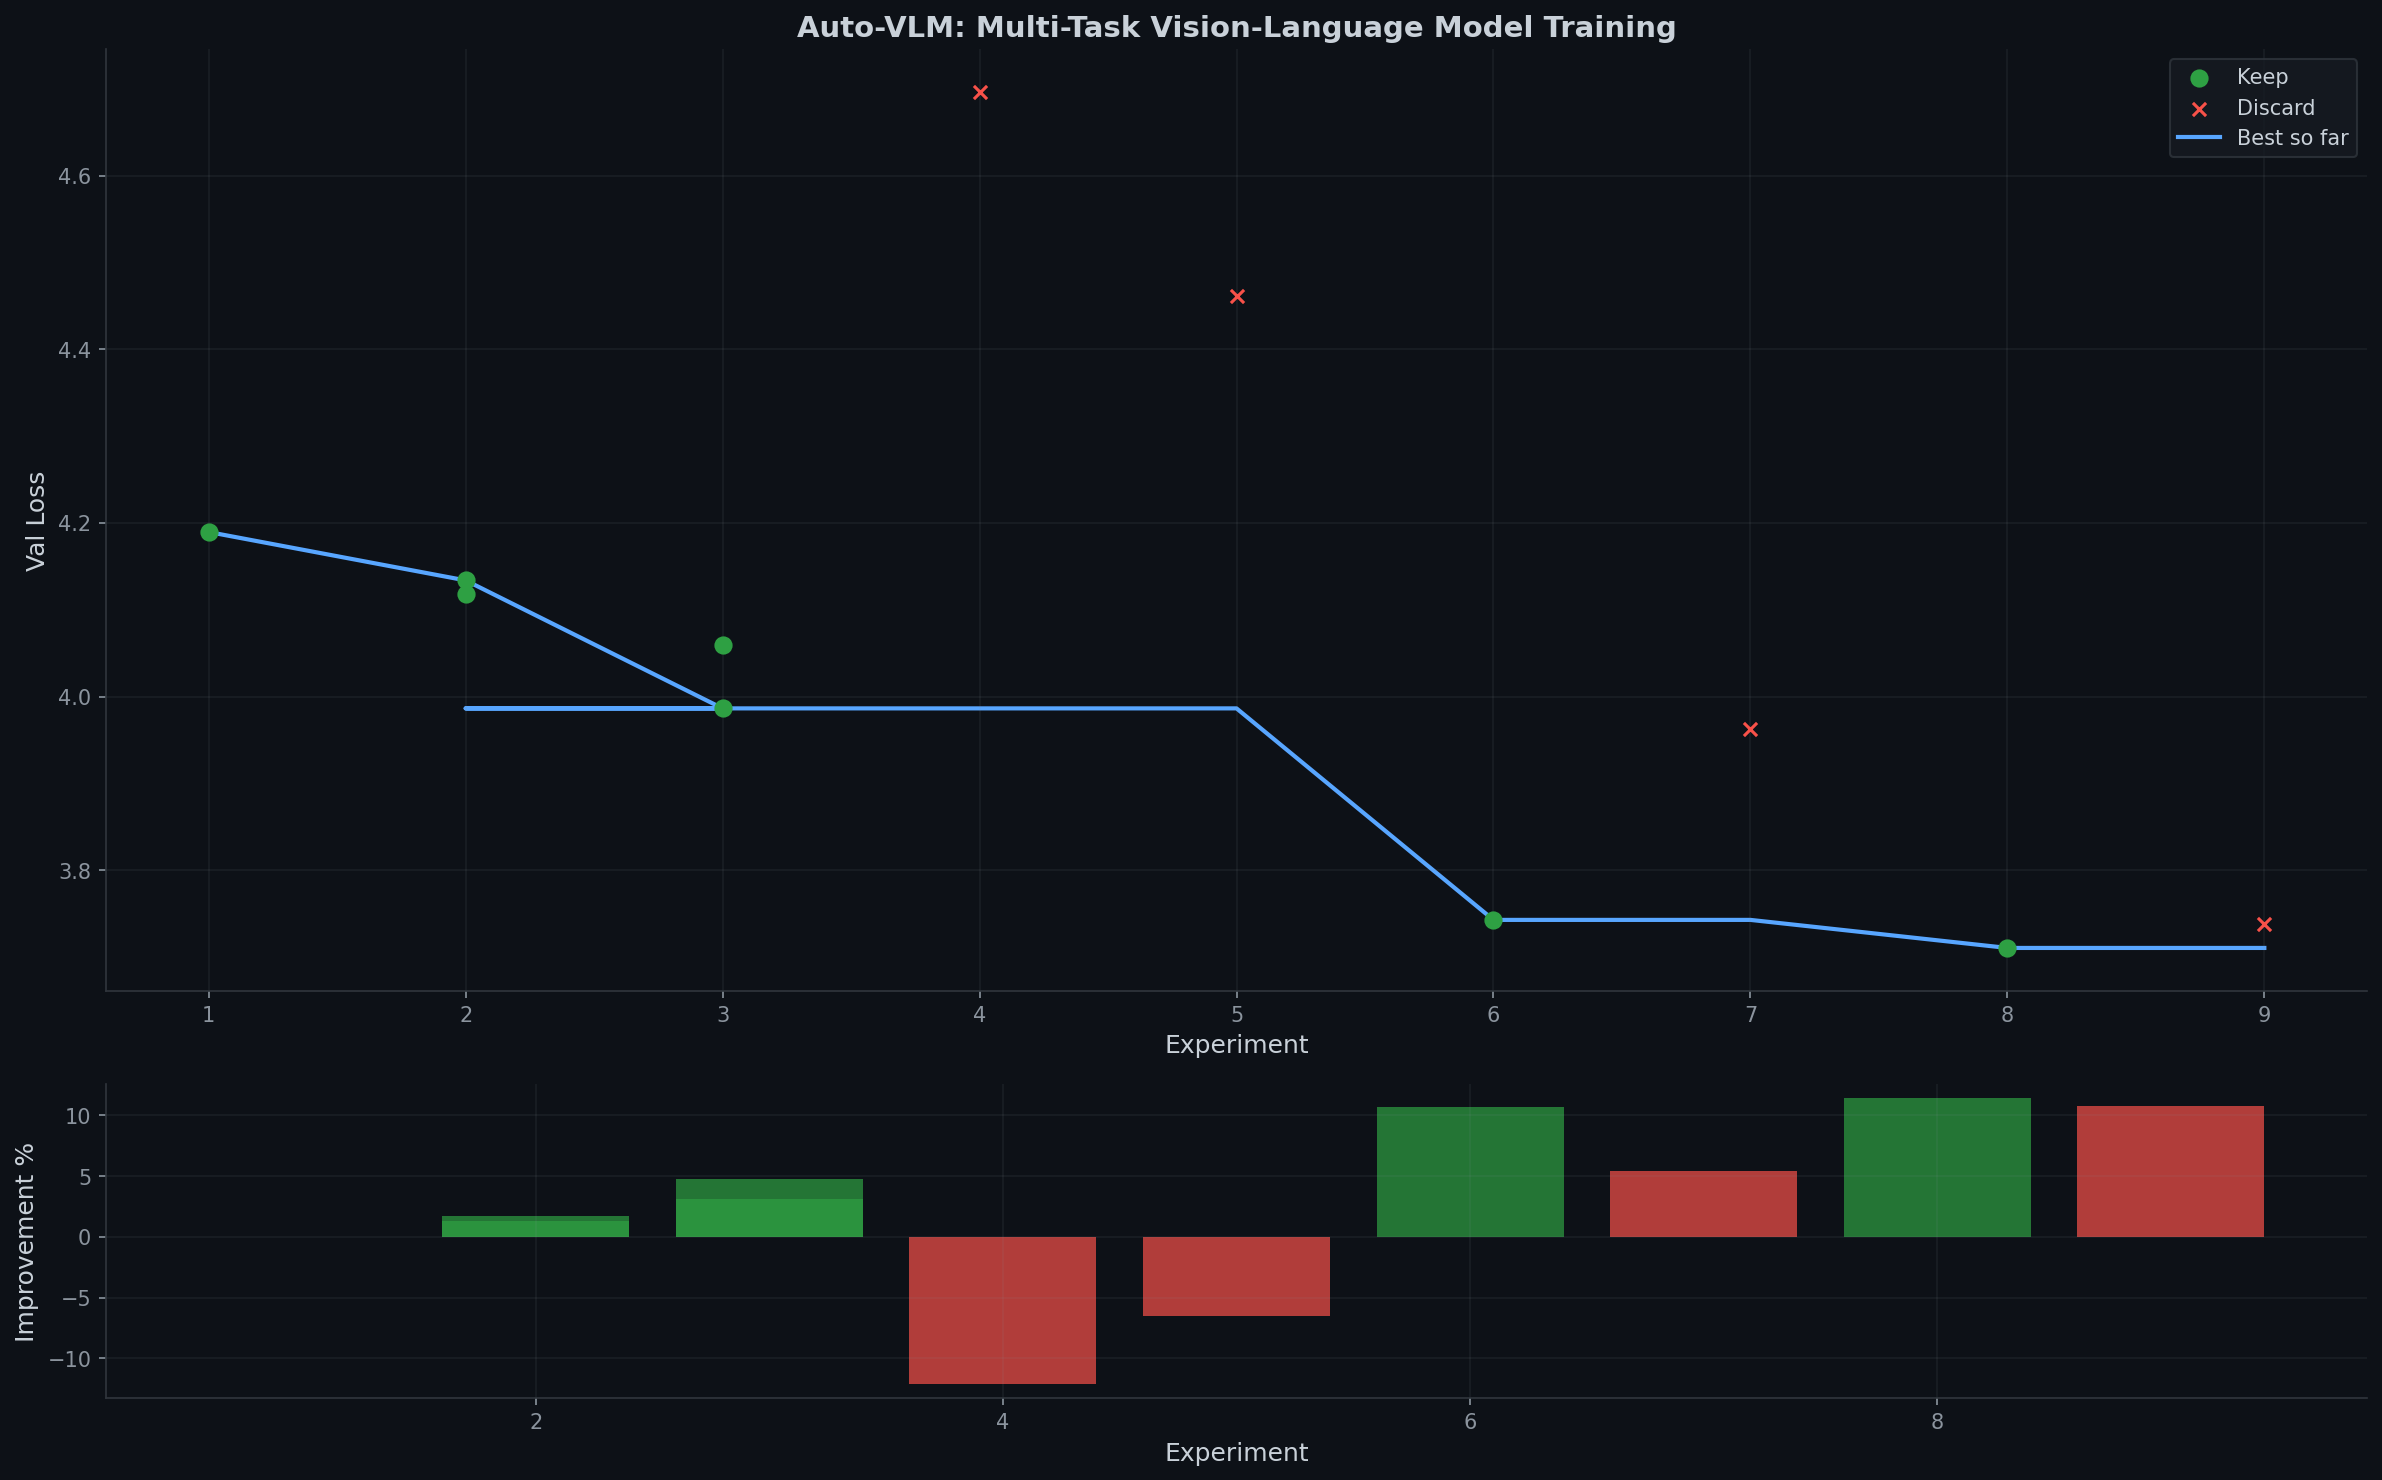
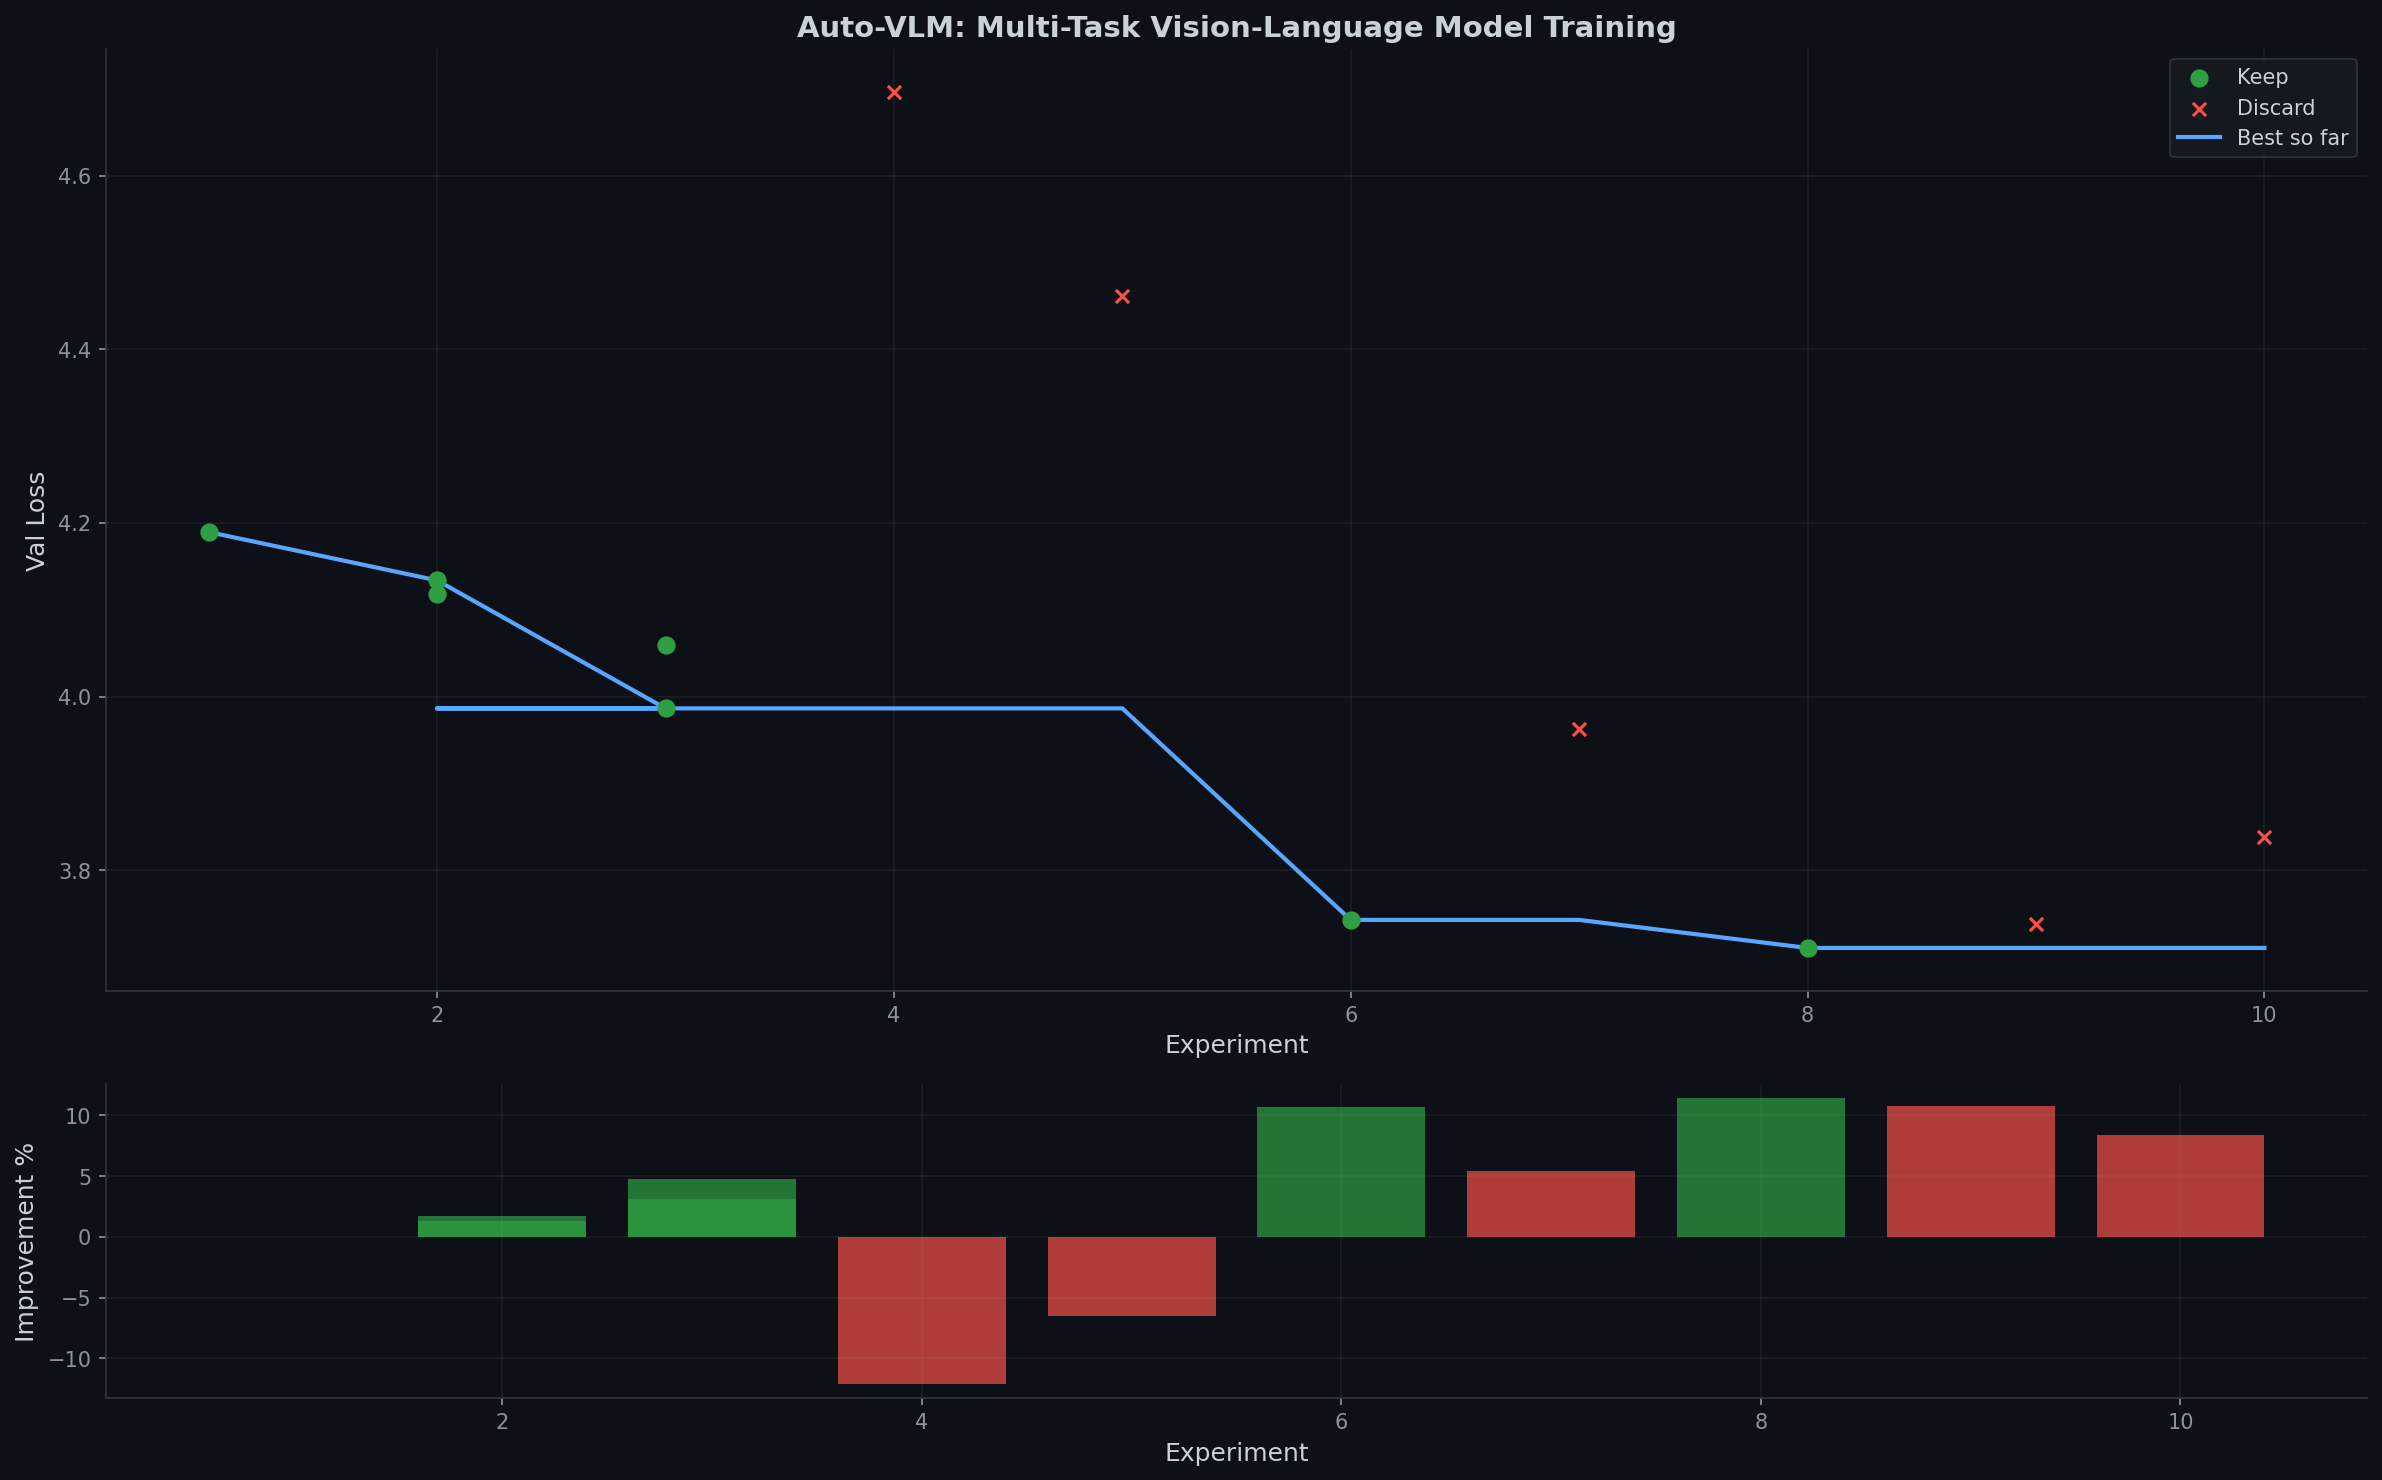
exp 010: lr=2e-3 DISCARD (val=3.8380)

diff --git a/index.html b/index.html
@@ -136,7 +136,7 @@
     </div>
 
     <div class="stats">
-        <div class="stat-card"><div class="label">Experiments</div><div class="value" id="total-exp">11</div></div>
+        <div class="stat-card"><div class="label">Experiments</div><div class="value" id="total-exp">12</div></div>
         <div class="stat-card"><div class="label">Kept</div><div class="value green" id="kept-exp">7</div></div>
         <div class="stat-card"><div class="label">Best Val Loss</div><div class="value" id="best-loss">3.7105</div></div>
         <div class="stat-card"><div class="label">Improvement</div><div class="value yellow" id="improvement">11.4%</div></div>
